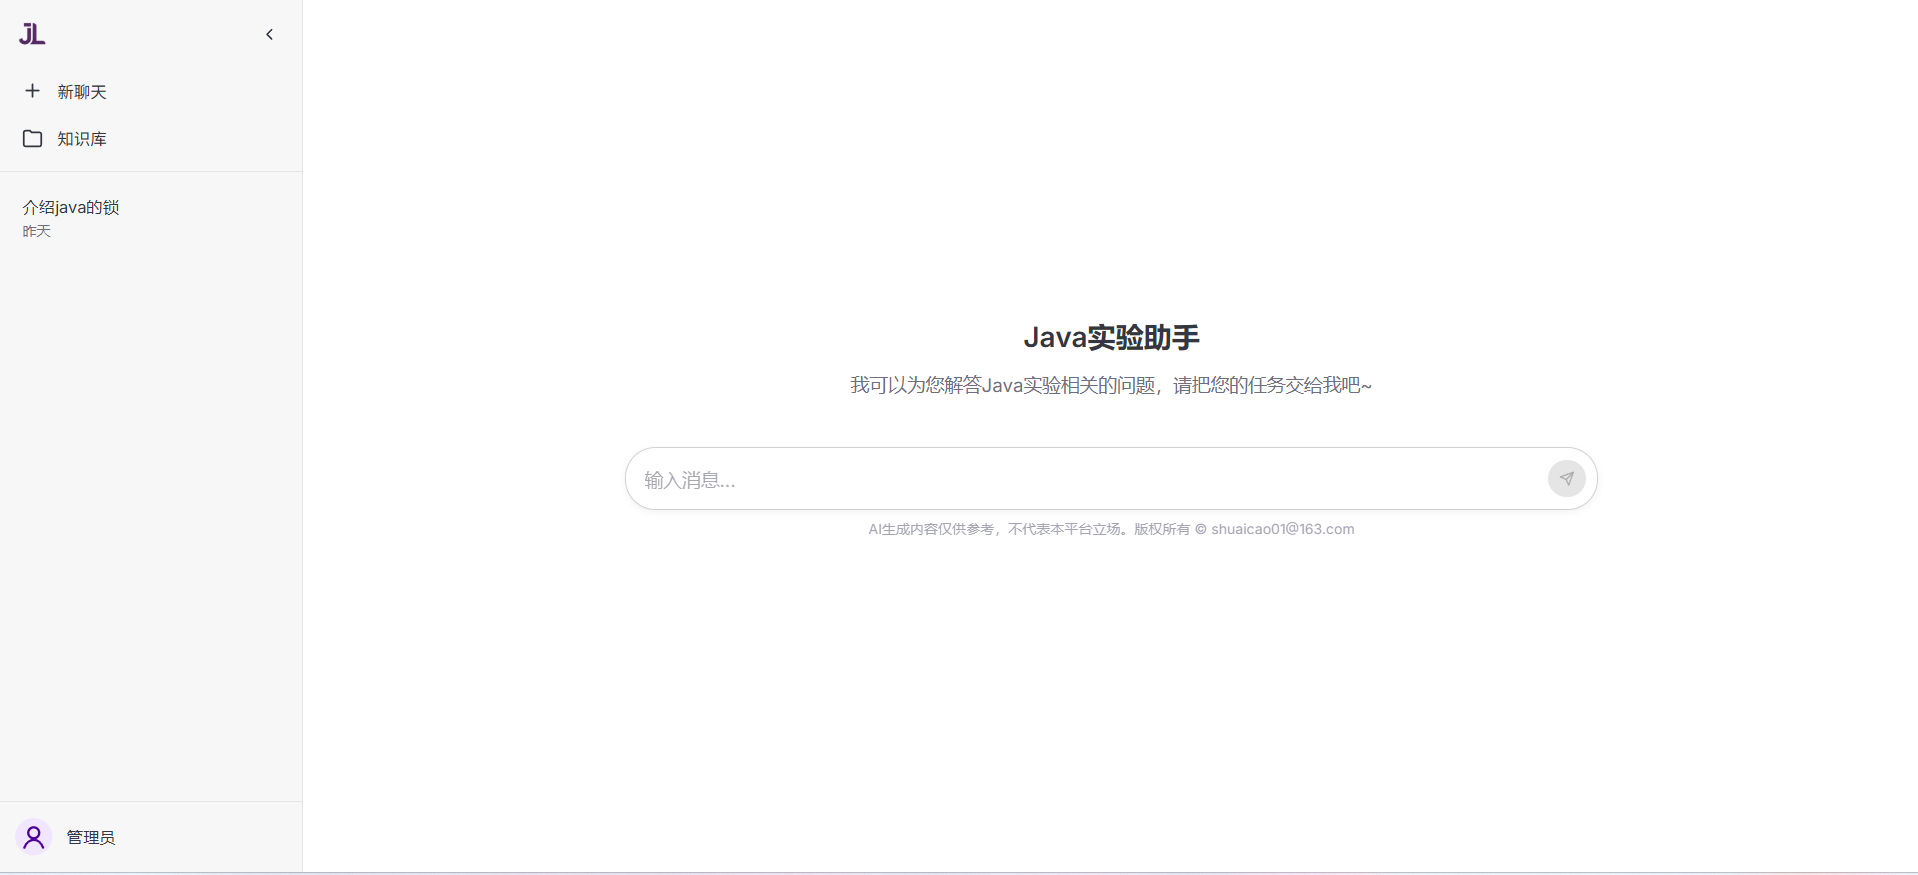
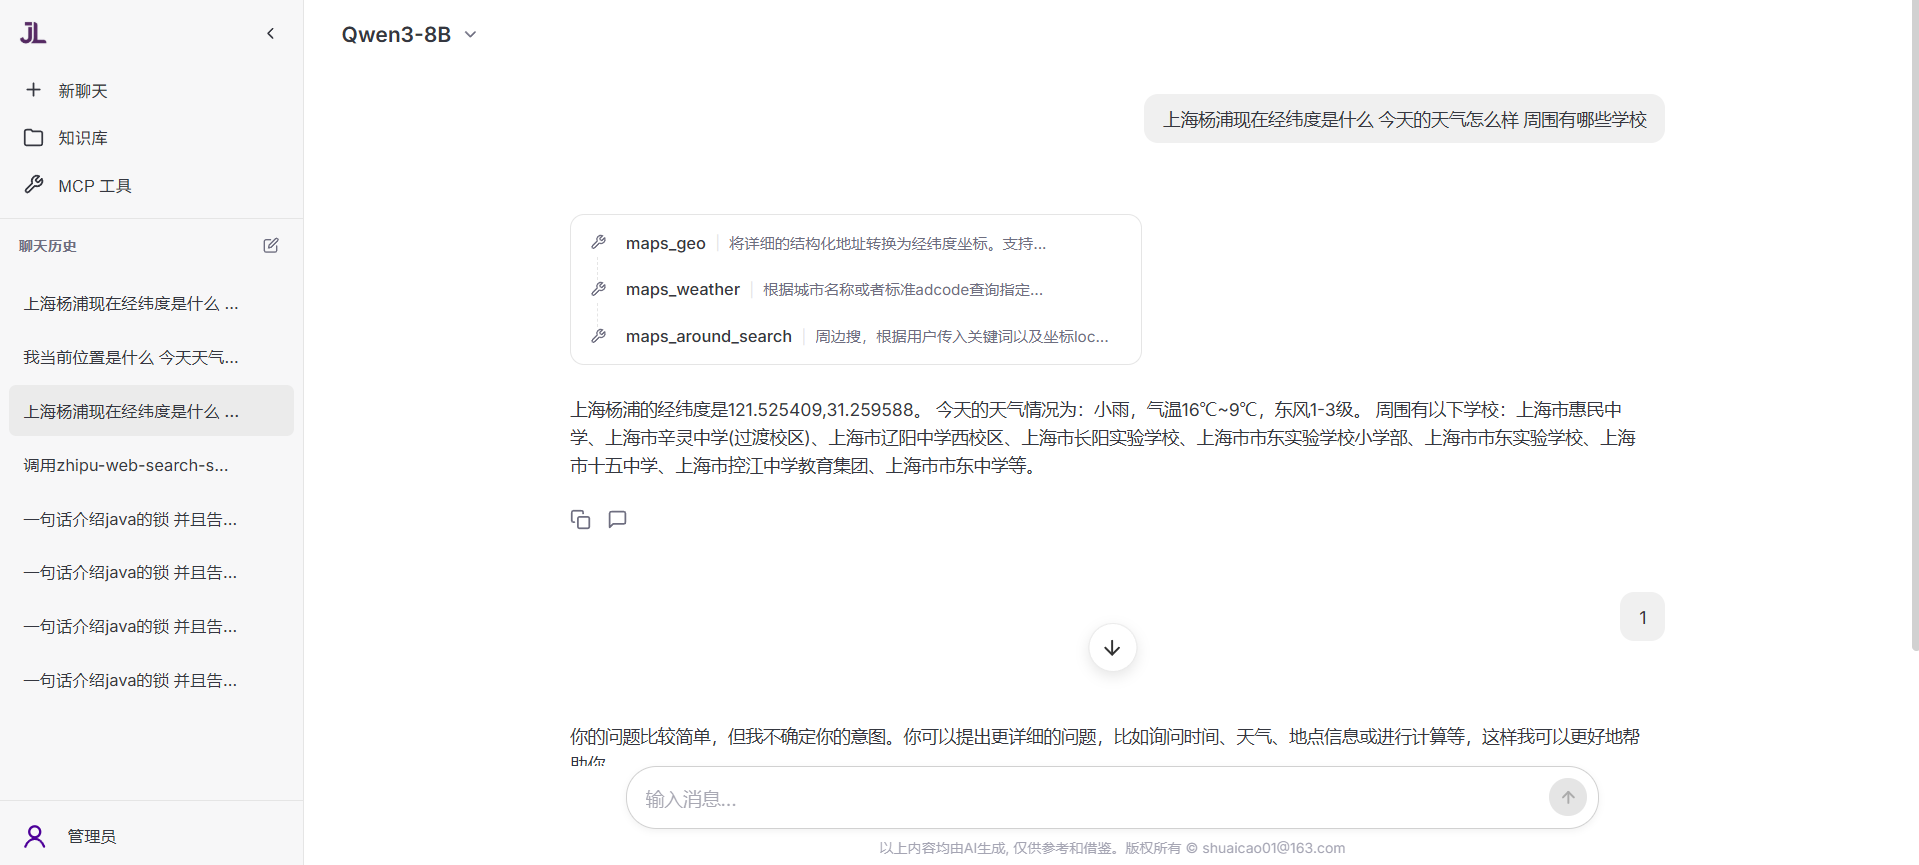
feat：前端优化

diff --git a/javalab-agent-front/src/components/MessageList.vue b/javalab-agent-front/src/components/MessageList.vue
@@ -1,33 +1,44 @@
 <template>
   <div class="message-list-wrapper">
-    <div 
-      class="message-list" 
+    <div
+      class="message-list"
       ref="messageListRef"
       @scroll="handleScroll"
     >
 
-      
+
       <MessageItem
         v-for="message in chatStore.messages"
         :key="message.id"
         :message="message"
       />
-      
+
       <div v-if="chatStore.isStreaming" class="typing-indicator">
         <span></span>
         <span></span>
         <span></span>
       </div>
     </div>
-    
+
     <!-- 到底部按钮 -->
     <button
       v-if="showScrollToBottomButton"
       @click="handleScrollToBottom"
       class="scroll-to-bottom-button"
-      title="滚动到底部"
     >
-      ↓
+      <svg
+        viewBox="0 0 24 24"
+        width="20"
+        height="20"
+        fill="none"
+        stroke="currentColor"
+        stroke-width="2"
+        stroke-linecap="round"
+        stroke-linejoin="round"
+      >
+        <line x1="12" y1="5" x2="12" y2="19"></line>
+        <polyline points="19 12 12 19 5 12"></polyline>
+      </svg>
     </button>
   </div>
 </template>
@@ -49,10 +60,10 @@ const BOTTOM_THRESHOLD = 100
 
 const checkIsAtBottom = () => {
   if (!messageListRef.value) return false
-  
+
   const { scrollTop, scrollHeight, clientHeight } = messageListRef.value
   const distanceFromBottom = scrollHeight - scrollTop - clientHeight
-  
+
   return distanceFromBottom <= BOTTOM_THRESHOLD
 }
 
@@ -62,26 +73,26 @@ let scrollTimeout = null
 
 const handleScroll = () => {
   isUserScrolling = true
-  
+
   if (scrollTimeout) {
     clearTimeout(scrollTimeout)
   }
-  
+
   // 设置一个较短的超时，检测滚动是否停止
   scrollTimeout = setTimeout(() => {
     isUserScrolling = false
   }, 150)
-  
+
   if (scrollTimer) {
     clearTimeout(scrollTimer)
   }
-  
+
   scrollTimer = setTimeout(() => {
     if (!messageListRef.value) return
-    
+
     const wasAtBottom = isAtBottom.value
     isAtBottom.value = checkIsAtBottom()
-    
+
     if (!wasAtBottom && isAtBottom.value) {
       userScrolled.value = false
       autoScrollEnabled.value = true
@@ -96,7 +107,7 @@ const handleScroll = () => {
 
 const scrollToBottom = (force = false) => {
   if (!messageListRef.value) return
-  
+
   if (autoScrollEnabled.value || force) {
     nextTick(() => {
       if (messageListRef.value) {
@@ -175,43 +186,43 @@ onMounted(() => {
   overflow-y: auto;
   overflow-x: hidden;
   padding: 60px 0 32px 0;
-  
+
   &::-webkit-scrollbar {
     width: 8px;
   }
-  
+
   &::-webkit-scrollbar-track {
     background: transparent;
   }
-  
+
   &::-webkit-scrollbar-thumb {
     background: var(--scrollbar-thumb);
     border-radius: 4px;
-    
+
     &:hover {
       background: var(--scrollbar-thumb-hover);
     }
   }
-  
 
-  
+
+
   .typing-indicator {
     display: flex;
     gap: 4px;
     padding: 20px;
     justify-content: center;
-    
+
     span {
       width: 8px;
       height: 8px;
       border-radius: 50%;
       background-color: var(--text-secondary);
       animation: typing 1.4s infinite;
-      
+
       &:nth-child(2) {
         animation-delay: 0.2s;
       }
-      
+
       &:nth-child(3) {
         animation-delay: 0.4s;
       }
@@ -224,30 +235,37 @@ onMounted(() => {
   bottom: 80px;
   left: 50%;
   transform: translateX(-50%);
-  width: 40px;
-  height: 40px;
+  width: 42px;
+  height: 42px;
   border-radius: 50%;
-  background-color: var(--bg-secondary);
-  border: 1px solid var(--border-color);
-  color: var(--text-primary);
-  font-size: 20px;
+  background-color: #ffffff;
+  border: 1px solid rgba(0, 0, 0, 0.08);
+  color: #333333;
   cursor: pointer;
   display: flex;
   align-items: center;
   justify-content: center;
-  box-shadow: 0 2px 8px rgba(0, 0, 0, 0.2);
-  transition: all 0.2s;
+  box-shadow: 0 4px 12px rgba(0, 0, 0, 0.1);
+  transition: all 0.2s cubic-bezier(0.4, 0, 0.2, 1);
   z-index: 10;
-  
-  &:hover {
-    background-color: var(--bg-hover);
-    border-color: var(--border-color-hover);
-    transform: translateX(-50%) translateY(-2px);
-    box-shadow: 0 4px 12px rgba(0, 0, 0, 0.3);
+
+  svg {
+    transition: transform 0.2s ease;
   }
-  
+
+  &:hover {
+    background-color: #ffffff;
+    border-color: rgba(0, 0, 0, 0.12);
+    transform: translateX(-50%) translateY(-2px);
+
+    svg {
+      transform: translateY(1px);
+    }
+  }
+
   &:active {
     transform: translateX(-50%) translateY(0);
+    box-shadow: 0 2px 8px rgba(0, 0, 0, 0.1);
   }
 }
 
